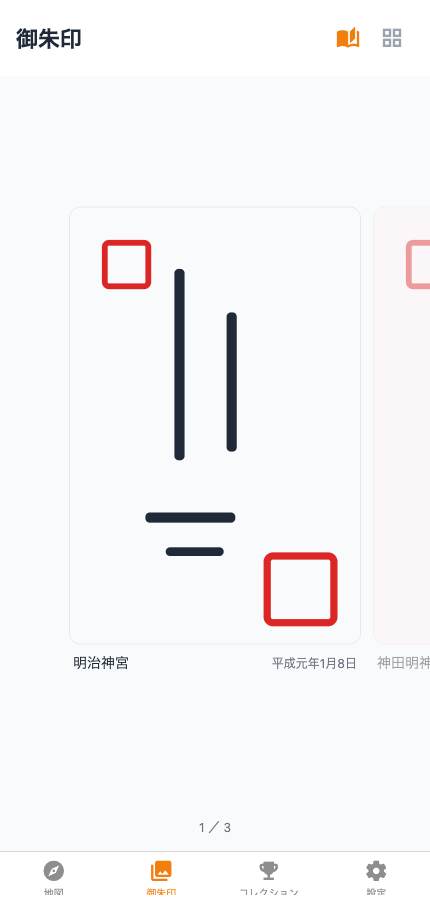
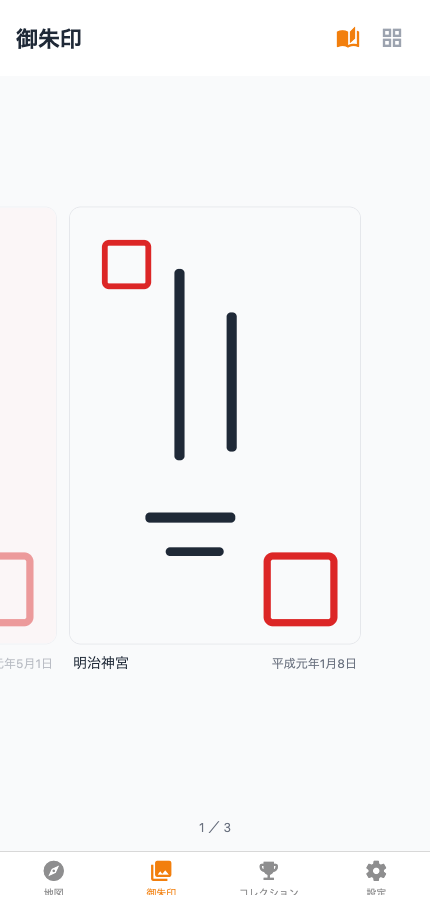
feat: めくりを右綴じにする（1ページ目が右端、新しいページが左へ）
ユーザー指定。御朱印帳の綴じ方向として自然な向きに合わせた。

FlatList の inverted で表現している。data の並び（昇順 + 末尾に白紙）も
現在ページの算出もページ番号の計算もそのまま使えるため、配列を組み替える
必要が無く、データが後から増えても右端が起点のまま保たれる。配列を逆順に
する実装だとこの2点が崩れる。

あわせて契約書の受入基準を向きに合わせて書き直し（W 群の左右、N-2 の
スワイプ方向、N-4 の追加位置）、A-43 を足して合計 89 項目にした。
S-7 のサンプルと useGalleryViewMode のシグネチャも実装に合わせている。

Claude-Session: https://claude.ai/code/session_01CofF4ktYrmCf3i2nN5ASa5

Changed region(s): [[0.0, 0.5911, 0.1209, 0.7467], [0.9372, 0.2489, 1.0, 0.3422], [0.8767, 0.7156, 1.0, 0.7467]]

diff --git a/src/components/gallery/GoshuinchoFlipView.tsx b/src/components/gallery/GoshuinchoFlipView.tsx
@@ -151,6 +151,10 @@ export function GoshuinchoFlipView({
         ref={listRef}
         testID="flip-list"
         horizontal
+        // 御朱印帳は右綴じ。1ページ目（最も古い御朱印）が右端に来て、
+        // 新しいページほど左に足されていく。inverted なら data の並び
+        // （昇順 + 末尾に白紙）とページ番号の計算をそのまま使える
+        inverted
         data={pages}
         keyExtractor={page => page.key}
         renderItem={renderItem}

diff --git a/src/components/gallery/__tests__/GoshuinchoFlipView.test.tsx b/src/components/gallery/__tests__/GoshuinchoFlipView.test.tsx
@@ -121,6 +121,11 @@ describe('GoshuinchoFlipView', () => {
       expect(getByTestId('flip-list').props.data).toHaveLength(1);
       expect(getAllByTestId('flip-blank-page')).toHaveLength(1);
     });
+
+    it('右綴じで描画する（1ページ目が右端、新しいページが左に足される）', () => {
+      const { getByTestId } = renderFlipView();
+      expect(getByTestId('flip-list').props.inverted).toBe(true);
+    });
   });
 
   describe('ページ番号', () => {
